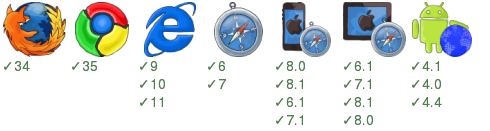
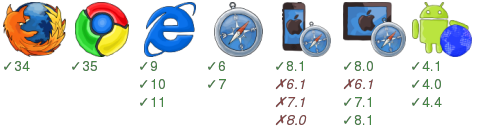
Auto commit smoke test results for 5a14da7ce5840b95270a3abe81c36c411dbd968e [ci skip]

diff --git a/examples/00hello/badge.html b/examples/00hello/badge.html
@@ -28,16 +28,16 @@ div{vertical-align:top;overflow:hidden;display:inline-block;width:92px;padding:4
 <p>&#x2713;7</p>
 </div><div>
 <img src="/home/travis/build/zordius/fluxex/examples/00hello/node_modules/badge-render/browser-badge/static/iphone.png" />
-<p>&#x2713;8.0</p>
 <p>&#x2713;8.1</p>
-<p>&#x2713;6.1</p>
-<p>&#x2713;7.1</p>
+<i>&#x2717;6.1</i>
+<i>&#x2717;7.1</i>
+<i>&#x2717;8.0</i>
 </div><div>
 <img src="/home/travis/build/zordius/fluxex/examples/00hello/node_modules/badge-render/browser-badge/static/ipad.png" />
-<p>&#x2713;6.1</p>
+<p>&#x2713;8.0</p>
+<i>&#x2717;6.1</i>
 <p>&#x2713;7.1</p>
 <p>&#x2713;8.1</p>
-<p>&#x2713;8.0</p>
 </div><div>
 <img src="/home/travis/build/zordius/fluxex/examples/00hello/node_modules/badge-render/browser-badge/static/android-browser.png" />
 <p>&#x2713;4.1</p>
